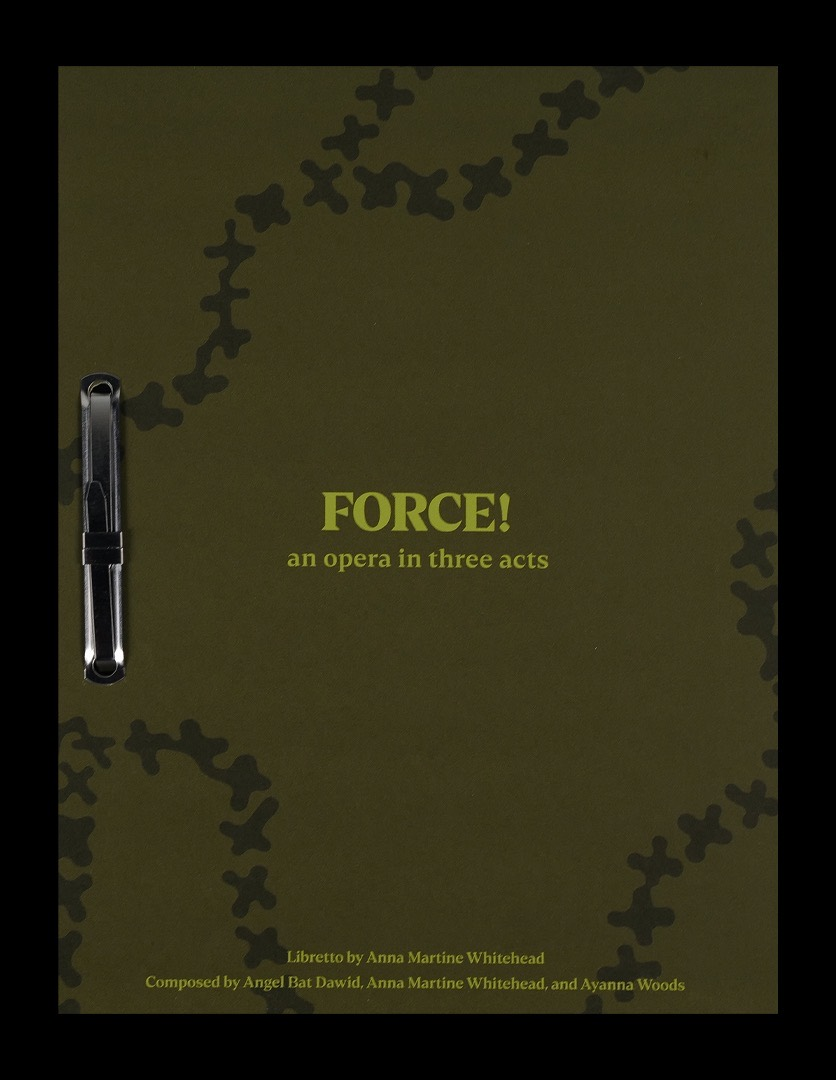
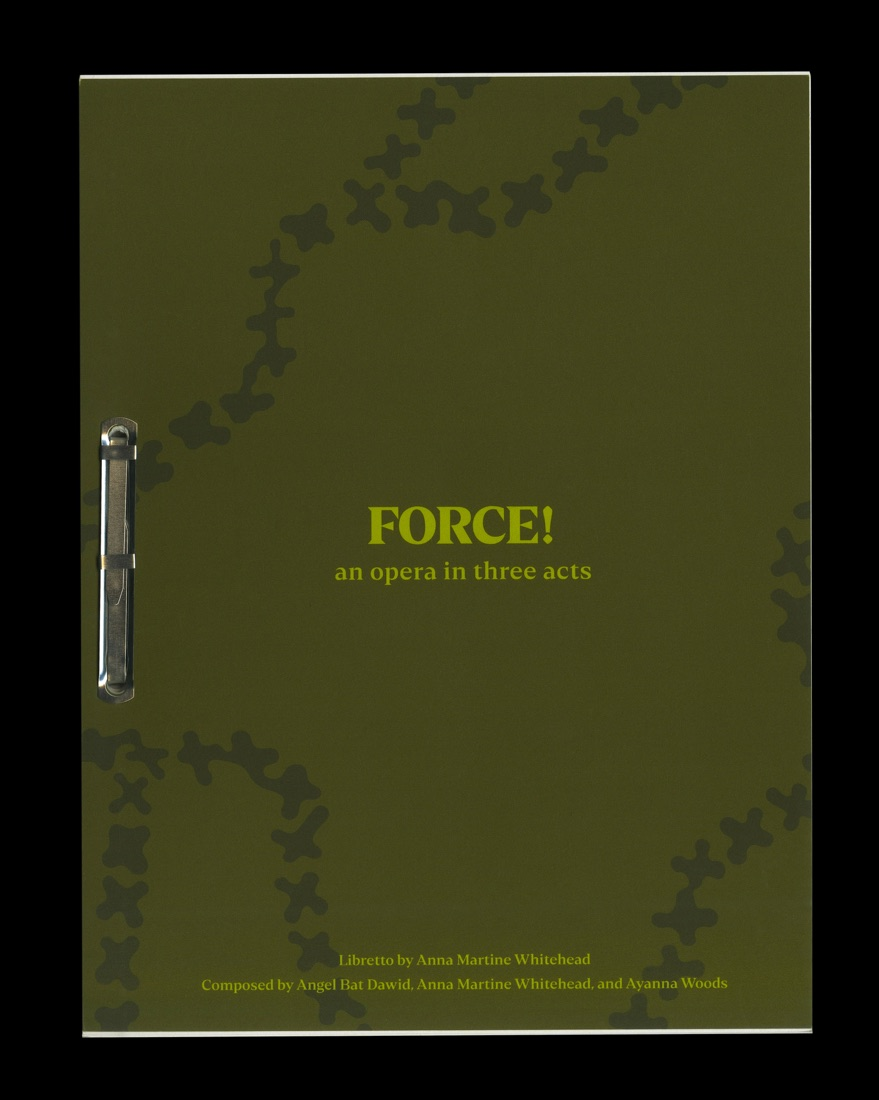
force cover

Changed region(s): [[0.0622, 0.0611, 0.933, 0.9472], [0.3421, 0.4583, 0.6842, 0.55]]

diff --git a/index.html b/index.html
@@ -322,9 +322,9 @@
     {
       name: 'FORCE! An Opera of Three Acts',
       url: 'projects/FORCE!/force.html',
-      img: 'projects/FORCE!/FORCE!_.jpg',
-      // Portrait crop — the 16:9 original leaves the libretto tiny on a phone.
-      // Both slots point at it so the preload can't swap the wide shot back in.
+      img: 'projects/FORCE!/FORCE!_HOVER.jpg',
+      imgHi: 'projects/FORCE!/FORCE!_HOVER.jpg',
+      // Portrait cover — contain + black keeps the same desktop stage size as before.
       imgMobile: 'projects/FORCE!/FORCE!_HOVER(MOBILE).jpg',
       imgMobileHi: 'projects/FORCE!/FORCE!_HOVER(MOBILE).jpg',
       previewFit: 'contain',
